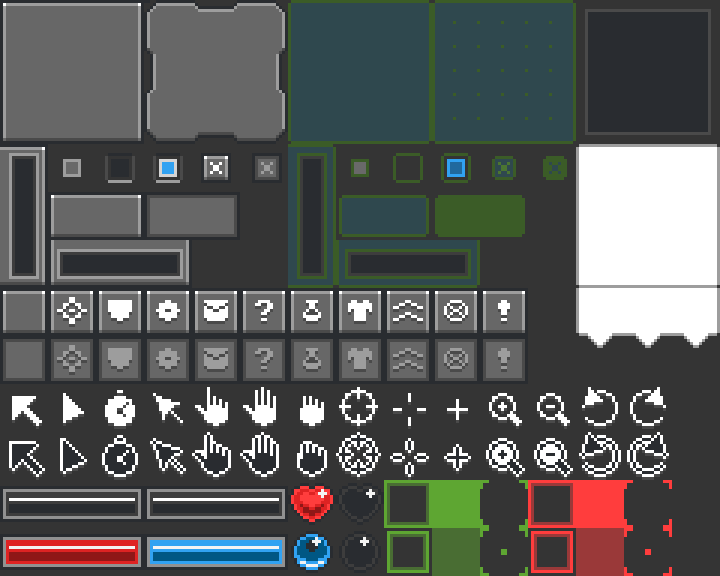
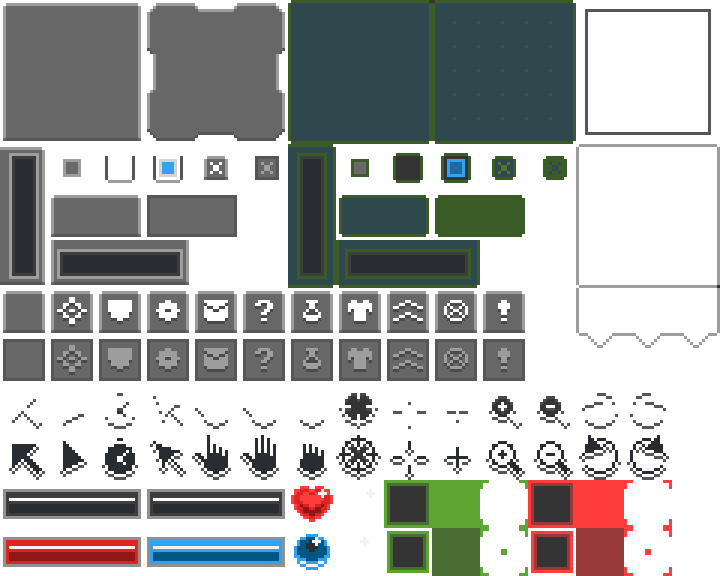
Add hud

diff --git a/dist/main.js b/dist/main.js
@@ -118,7 +118,7 @@ eval("__webpack_require__.r(__webpack_exports__);\n/* harmony import */ var _uti
 /***/ (function(module, __webpack_exports__, __webpack_require__) {
 
 "use strict";
-eval("__webpack_require__.r(__webpack_exports__);\n/* harmony import */ var _view__WEBPACK_IMPORTED_MODULE_0__ = __webpack_require__(/*! ./view */ \"./src/view.js\");\n/* harmony import */ var _character__WEBPACK_IMPORTED_MODULE_1__ = __webpack_require__(/*! ./character */ \"./src/character.js\");\n/* harmony import */ var _map__WEBPACK_IMPORTED_MODULE_2__ = __webpack_require__(/*! ./map */ \"./src/map.js\");\n/* harmony import */ var _levels__WEBPACK_IMPORTED_MODULE_3__ = __webpack_require__(/*! ./levels */ \"./src/levels.js\");\n/* harmony import */ var _util__WEBPACK_IMPORTED_MODULE_4__ = __webpack_require__(/*! ./util */ \"./src/util.js\");\n/* harmony import */ var _monsters__WEBPACK_IMPORTED_MODULE_5__ = __webpack_require__(/*! ./monsters */ \"./src/monsters.js\");\n/* harmony import */ var _bullets__WEBPACK_IMPORTED_MODULE_6__ = __webpack_require__(/*! ./bullets */ \"./src/bullets.js\");\n\n\n\n\n\n\n\n\nclass Game {\n  constructor(viewportDimensions) {\n    this.gameMap = new _map__WEBPACK_IMPORTED_MODULE_2__[\"default\"](_levels__WEBPACK_IMPORTED_MODULE_3__[\"levelOne\"])\n    this.player = new _character__WEBPACK_IMPORTED_MODULE_1__[\"default\"]()\n    this.viewport = new _view__WEBPACK_IMPORTED_MODULE_0__[\"default\"](viewportDimensions)\n    this.bullets = []\n    this.keysDown = {\n      32: false, //spacebar\n      37: false, //left arrow\n      39: false, //right arrow\n      38: false, //up arrow\n      40: false, //down arrow\n    }\n    this.monsters = {}\n    this.spawnRate = 6\n    this.maxSpawns = 500\n    this.currentSpawns = 0\n    this.score = 0\n    this.drawGame = () => {\n\n    if(ctx === null) return;\n    if(!tilesetLoaded || !monsterSetLoaded || !fxSetLoaded) {\n      requestAnimationFrame(this.drawGame)\n      return;\n    }\n    \n    const currentFrameTime = Date.now()\n    const timeElapsed = currentFrameTime - lastFrameTime\n\n    let sec = Math.floor(Date.now()/1000);\n    if (sec !== currentSecond) {\n      currentSecond = sec;\n      framesLastSecond = frameCount;\n      frameCount = 1\n    } else {\n      frameCount ++\n    }\n\n    //////// generate bullet\n    if(this.keysDown[32] && (currentFrameTime - this.player.lastBulletFired) > this.player.rateOfFire) {\n\n      let bullet = new _bullets__WEBPACK_IMPORTED_MODULE_6__[\"default\"](this.player.facing)\n      bullet.placeAt(this.player.tileFrom[0] + (_util__WEBPACK_IMPORTED_MODULE_4__[\"DIRECTIONS\"][bullet.facing].DIRS[0]), this.player.tileFrom[1] + (_util__WEBPACK_IMPORTED_MODULE_4__[\"DIRECTIONS\"][bullet.facing].DIRS[1]))\n      this.bullets.push(bullet)\n      this.player.lastBulletFired = currentFrameTime\n    }\n\n    this.viewport.update(this.player.position[0] + (this.player.dimensions[0]/2), \n    this.player.position[1] + (this.player.dimensions[1]/2))\n    this.renderViewportImage()\n    this.renderMap()\n    this.moveAndRenderBullets(currentFrameTime)\n    //// generate monster\n    if (!(sec%this.spawnRate) && this.currentSpawns < this.maxSpawns) this.placeMonster(_util__WEBPACK_IMPORTED_MODULE_4__[\"TILETYPES\"],_util__WEBPACK_IMPORTED_MODULE_4__[\"FLOORTYPES\"])\n  \n    //Player movement//////////////////////////////////////////////////////\n    if (!this.player.processMovement(currentFrameTime)) {\n      if((this.keysDown[37] && this.keysDown[39]) || (this.keysDown[38] && this.keysDown[40])) {\n        //do nothing\n        //prevent screen stuttering\n      }\n      //Left + up arrow\n      else if ((this.keysDown[37] && this.keysDown[38]) && this.isValidMove(_util__WEBPACK_IMPORTED_MODULE_4__[\"DIRECTIONS\"].UPLEFT, _util__WEBPACK_IMPORTED_MODULE_4__[\"TILETYPES\"], _util__WEBPACK_IMPORTED_MODULE_4__[\"FLOORTYPES\"])) {\n        this.player.move(_util__WEBPACK_IMPORTED_MODULE_4__[\"DIRECTIONS\"].UPLEFT, currentFrameTime)\n      }\n      //Left + down arrow\n      else if ((this.keysDown[37] && this.keysDown[40]) && this.isValidMove(_util__WEBPACK_IMPORTED_MODULE_4__[\"DIRECTIONS\"].DOWNLEFT, _util__WEBPACK_IMPORTED_MODULE_4__[\"TILETYPES\"], _util__WEBPACK_IMPORTED_MODULE_4__[\"FLOORTYPES\"])) {\n        this.player.move(_util__WEBPACK_IMPORTED_MODULE_4__[\"DIRECTIONS\"].DOWNLEFT, currentFrameTime)\n      }\n      //right + up arrow\n      else if ((this.keysDown[39] && this.keysDown[38]) && this.isValidMove(_util__WEBPACK_IMPORTED_MODULE_4__[\"DIRECTIONS\"].UPRIGHT, _util__WEBPACK_IMPORTED_MODULE_4__[\"TILETYPES\"], _util__WEBPACK_IMPORTED_MODULE_4__[\"FLOORTYPES\"])) {\n        this.player.move(_util__WEBPACK_IMPORTED_MODULE_4__[\"DIRECTIONS\"].UPRIGHT, currentFrameTime)\n      }\n      //right + down arrow\n      else if ((this.keysDown[39] && this.keysDown[40]) && this.isValidMove(_util__WEBPACK_IMPORTED_MODULE_4__[\"DIRECTIONS\"].DOWNRIGHT, _util__WEBPACK_IMPORTED_MODULE_4__[\"TILETYPES\"], _util__WEBPACK_IMPORTED_MODULE_4__[\"FLOORTYPES\"])) {\n        this.player.move(_util__WEBPACK_IMPORTED_MODULE_4__[\"DIRECTIONS\"].DOWNRIGHT, currentFrameTime)\n      }\n      //up arrow\n      else if (this.keysDown[38] && this.isValidMove(_util__WEBPACK_IMPORTED_MODULE_4__[\"DIRECTIONS\"].UP, _util__WEBPACK_IMPORTED_MODULE_4__[\"TILETYPES\"], _util__WEBPACK_IMPORTED_MODULE_4__[\"FLOORTYPES\"])) {\n        this.player.move(_util__WEBPACK_IMPORTED_MODULE_4__[\"DIRECTIONS\"].UP, currentFrameTime)  \n      }\n      //Down arrow\n      else if (this.keysDown[40] && this.isValidMove(_util__WEBPACK_IMPORTED_MODULE_4__[\"DIRECTIONS\"].DOWN, _util__WEBPACK_IMPORTED_MODULE_4__[\"TILETYPES\"], _util__WEBPACK_IMPORTED_MODULE_4__[\"FLOORTYPES\"])) {\n        this.player.move(_util__WEBPACK_IMPORTED_MODULE_4__[\"DIRECTIONS\"].DOWN, currentFrameTime)  \n      }\n      //Left arrow\n      else if (this.keysDown[37] && this.isValidMove(_util__WEBPACK_IMPORTED_MODULE_4__[\"DIRECTIONS\"].LEFT, _util__WEBPACK_IMPORTED_MODULE_4__[\"TILETYPES\"], _util__WEBPACK_IMPORTED_MODULE_4__[\"FLOORTYPES\"])) {\n        this.player.move(_util__WEBPACK_IMPORTED_MODULE_4__[\"DIRECTIONS\"].LEFT, currentFrameTime)  \n      }\n      //right arrow\n      else if (this.keysDown[39] && this.isValidMove(_util__WEBPACK_IMPORTED_MODULE_4__[\"DIRECTIONS\"].RIGHT, _util__WEBPACK_IMPORTED_MODULE_4__[\"TILETYPES\"], _util__WEBPACK_IMPORTED_MODULE_4__[\"FLOORTYPES\"])) {\n        this.player.move(_util__WEBPACK_IMPORTED_MODULE_4__[\"DIRECTIONS\"].RIGHT, currentFrameTime)\n      }\n      //check to see if player is moving\n      if((this.player.tileFrom[0] !== this.player.tileTo[0]) || (this.player.tileFrom[1] !== this.player.tileTo[1])){\n        this.player.timeMoved = currentFrameTime\n      }\n    }\n    ////////////////////////////////////////////////////////////////\n\n    //monsters\n    \n    let monsterMap = {}\n    for(let monster in this.monsters) {\n      monster = this.monsters[monster]\n\n      //if this is true then do not render\n      if (!monster.alive) continue;\n\n      if(!monster.processMovement(currentFrameTime)) {\n        \n        let direction = _util__WEBPACK_IMPORTED_MODULE_4__[\"DIRECTIONS\"][monster.determineDirection(this.player.position)]\n        //Loss condition here - if direction is blank then we know the monster is at the same position as the player\n        if (!direction) {\n          ctx.drawImage(window.gameOver, 163.5, 340, 473, 171, )\n          music.pause()\n          return;\n        }\n        let i = 2\n        while(!monster.isValidMonsterMove(this.gameMap, direction, this.monsters, monsterMap) && i > 0) {\n          //make 4 attempts to change direction\n          direction = _util__WEBPACK_IMPORTED_MODULE_4__[\"DIRECTIONS\"][_monsters__WEBPACK_IMPORTED_MODULE_5__[\"default\"].resolveCollision(direction)]\n          i -= 1\n\n        }\n        if(i > 0 ) monster.move(direction, currentFrameTime)\n\n      }\n      this.renderMonster(monster);\n      //might be redundant\n      if (monster.alive) monsterMap[this.toIndex(...monster.tileTo)] = monster;\n    }\n    this.monsters = monsterMap;\n    this.renderPlayer();\n    this.renderFPSCounter(framesLastSecond);\n    this.renderScore();\n    lastFrameTime = currentFrameTime;\n    requestAnimationFrame(this.drawGame);\n   }\n  }\n\n\n  increaseScore() {\n    this.currentSpawns -= 1\n    this.score += 1\n  }\n\n  renderPlayer() {\n    let spriteIndex = (this.player.movementAnimation) ? 0 : 1\n    window.ctx.drawImage(window.monsterSet, this.player.playerSprites[this.player.facing][spriteIndex].x, this.player.playerSprites[this.player.facing][spriteIndex].y, this.player.playerSprites[this.player.facing][spriteIndex].w, this.player.playerSprites[this.player.facing][spriteIndex].h,  (this.viewport.offset[0] + this.player.position[0]), (this.viewport.offset[1] + this.player.position[1]), this.player.dimensions[0], this.player.dimensions[1]);\n  }\n  renderMonster(monster) {\n    let spriteIndex = (monster.movementAnimation) ? 0 : 1\n    window.ctx.drawImage(window.monsterSet, monster.monsterSprites[monster.facing][spriteIndex].x, monster.monsterSprites[monster.facing][spriteIndex].y, monster.monsterSprites[monster.facing][spriteIndex].w, monster.monsterSprites[monster.facing][spriteIndex].h, (this.viewport.offset[0] + monster.position[0]), (this.viewport.offset[1]+ monster.position[1]), monster.dimensions[0], monster.dimensions[1]);\n  }\n\n\n  renderViewportImage() {\n     window.ctx.drawImage(window.spaceImage, 0, 0, 800, 800,  0, 0, this.viewport.screen[0], this.viewport.screen[1]);\n  }\n\n  toIndex(x,y) {\n    return ((y*mapW) + x);\n  }\n\n  //This function should be moved into the map\n  isValidMove(direction, TILETYPES, FLOORTYPES) {\n    const x = this.player.tileFrom[0] + direction.DIRS[0];\n    const y = this.player.tileFrom[1] + direction.DIRS[1]\n    if(x < 0 || x > (mapW-1) || y < 0 || y > mapH-1) return false;\n    if(TILETYPES[this.gameMap.map[this.toIndex(x,y)]].floor !== FLOORTYPES.open) return false;\n    return true;\n  }\n\n  // isValidMonsterMove(monster, direction, TILETYPES, FLOORTYPES) {\n  //   const x = monster.tileFrom[0] + direction.DIRS[0];\n  //   const y = monster.tileFrom[1] + direction.DIRS[1];\n  //   if(x < 0 || x > (mapW-1) || y < 0 || y > mapH-1) return false;\n  //   if(TILETYPES[this.gameMap.map[this.toIndex(x,y)]].floor !== FLOORTYPES.open) return false;\n  //   if (this.monsters[this.gameMap.map[this.toIndex(x,y)]]) return false;\n  //   return true;\n  // }\n  \n\n   renderMap() {\n     for(let y = this.viewport.startTile[1]; y <= this.viewport.endTile[1]; y++) {\n      for(let x = this.viewport.startTile[0]; x <= this.viewport.endTile[0]; x++) {\n        const index = this.toIndex(x,y)\n        const tile = _util__WEBPACK_IMPORTED_MODULE_4__[\"TILETYPES\"][this.gameMap.map[this.toIndex(x,y)]];\n        let spriteIndex = tile.name === \"wall\" && this.gameMap.map[index + 64] ? 1 : 0\n        try {\n          window.ctx.drawImage(window.tileset, tile.sprite[spriteIndex].x, tile.sprite[spriteIndex].y, tile.sprite[spriteIndex].w, tile.sprite[spriteIndex].h, \n            (this.viewport.offset[0] + (x * tileW)), (this.viewport.offset[1] + (y*tileH)), tileW, tileH);\n          } catch(err) {\n            console.log(this.gameMap.map[index + 64])\n          }\n      }\n    }\n  }\n\n  renderFPSCounter(framesLastSecond) {\n    window.ctx.fillStyle = \"ff0000\";\n    window.ctx.fillText(\"FPS: \" + framesLastSecond, 10, 20)\n  }\n\n  renderScore() {\n    window.ctx.fillStyle = \"ff0000\";\n    window.ctx.fillText(\"Score: \" + this.score, 10, 48)\n  }\n  placeMonster(TILETYPES,FLOORTYPES) {\n    const playerPosition = this.player.position\n    const newMonsterPosition = () => [Math.floor(Math.random() * mapH - 1) + 1, Math.floor(Math.random() * mapW - 1) + 1]\n    const validateMonsterPlacement = (position) => {\n      if (Math.abs(position[0] - playerPosition[0]) <= 3 || Math.abs(position[1] - playerPosition[1]) <= 3) return false\n      if(TILETYPES[this.gameMap.map[this.toIndex(...position)]].floor !== FLOORTYPES.open) return false\n      return true\n    }\n    let monsterPosition = newMonsterPosition()\n    while (!validateMonsterPlacement(monsterPosition)) {\n      monsterPosition = newMonsterPosition()\n    }\n    const monster = new _monsters__WEBPACK_IMPORTED_MODULE_5__[\"default\"]()\n    monster.placeAt(...monsterPosition)\n    this.monsters[this.toIndex(...monsterPosition)] = monster\n    this.currentSpawns += 1\n  }\n  \n  moveAndRenderBullets(currentFrameTime) {\n  let bullets = []\n  \n    if (this.bullets.length > 0) {\n     for(let bullet of this.bullets) {\n  \n      if (bullet.detectCollision(this.monsters)) this.increaseScore()\n\n      if(bullet.isValidMove(this.gameMap)) {\n        if(!bullet.processMovement(currentFrameTime)) {\n          bullet.move(_util__WEBPACK_IMPORTED_MODULE_4__[\"DIRECTIONS\"][bullet.facing], currentFrameTime)\n          //console.log(this.player.position)\n          //console.log(\"bullet\", bullet.position)\n        }\n        bullets.push(bullet)\n    }\n\n  \n      let spriteIndex = (bullet.movementAnimation) ? 0 : 1\n      window.ctx.drawImage(window.fxSet, bullet.bulletSprites[bullet.facing][spriteIndex].x, bullet.bulletSprites[bullet.facing][spriteIndex].y, bullet.bulletSprites[bullet.facing][spriteIndex].w, bullet.bulletSprites[bullet.facing][spriteIndex].h, (this.viewport.offset[0] + bullet.position[0]), (this.viewport.offset[1]+ bullet.position[1]), bullet.dimensions[0], bullet.dimensions[1]);\n\n     }\n    } \n   this.bullets = bullets\n  }\n\n}\n  \n\n/* harmony default export */ __webpack_exports__[\"default\"] = (Game);\n\n\n\n\n//# sourceURL=webpack:///./src/game.js?");
+eval("__webpack_require__.r(__webpack_exports__);\n/* harmony import */ var _view__WEBPACK_IMPORTED_MODULE_0__ = __webpack_require__(/*! ./view */ \"./src/view.js\");\n/* harmony import */ var _character__WEBPACK_IMPORTED_MODULE_1__ = __webpack_require__(/*! ./character */ \"./src/character.js\");\n/* harmony import */ var _map__WEBPACK_IMPORTED_MODULE_2__ = __webpack_require__(/*! ./map */ \"./src/map.js\");\n/* harmony import */ var _levels__WEBPACK_IMPORTED_MODULE_3__ = __webpack_require__(/*! ./levels */ \"./src/levels.js\");\n/* harmony import */ var _util__WEBPACK_IMPORTED_MODULE_4__ = __webpack_require__(/*! ./util */ \"./src/util.js\");\n/* harmony import */ var _monsters__WEBPACK_IMPORTED_MODULE_5__ = __webpack_require__(/*! ./monsters */ \"./src/monsters.js\");\n/* harmony import */ var _bullets__WEBPACK_IMPORTED_MODULE_6__ = __webpack_require__(/*! ./bullets */ \"./src/bullets.js\");\n\n\n\n\n\n\n\n\nclass Game {\n  constructor(viewportDimensions) {\n    this.gameMap = new _map__WEBPACK_IMPORTED_MODULE_2__[\"default\"](_levels__WEBPACK_IMPORTED_MODULE_3__[\"levelOne\"])\n    this.player = new _character__WEBPACK_IMPORTED_MODULE_1__[\"default\"]()\n    this.viewport = new _view__WEBPACK_IMPORTED_MODULE_0__[\"default\"](viewportDimensions)\n    this.bullets = []\n    this.keysDown = {\n      32: false, //spacebar\n      37: false, //left arrow\n      39: false, //right arrow\n      38: false, //up arrow\n      40: false, //down arrow\n    }\n    this.monsters = {}\n    this.spawnRate = 6\n    this.maxSpawns = 500\n    this.currentSpawns = 0\n    this.score = 0\n    this.drawGame = () => {\n\n    if(ctx === null) return;\n    if(!tilesetLoaded || !monsterSetLoaded || !fxSetLoaded) {\n      requestAnimationFrame(this.drawGame)\n      return;\n    }\n    \n    const currentFrameTime = Date.now()\n    const timeElapsed = currentFrameTime - lastFrameTime\n\n    let sec = Math.floor(Date.now()/1000);\n    if (sec !== currentSecond) {\n      currentSecond = sec;\n      framesLastSecond = frameCount;\n      frameCount = 1\n    } else {\n      frameCount ++\n    }\n\n    //////// generate bullet\n    if(this.keysDown[32] && (currentFrameTime - this.player.lastBulletFired) > this.player.rateOfFire) {\n\n      let bullet = new _bullets__WEBPACK_IMPORTED_MODULE_6__[\"default\"](this.player.facing)\n      bullet.placeAt(this.player.tileFrom[0] + (_util__WEBPACK_IMPORTED_MODULE_4__[\"DIRECTIONS\"][bullet.facing].DIRS[0]), this.player.tileFrom[1] + (_util__WEBPACK_IMPORTED_MODULE_4__[\"DIRECTIONS\"][bullet.facing].DIRS[1]))\n      this.bullets.push(bullet)\n      this.player.lastBulletFired = currentFrameTime\n    }\n\n    this.viewport.update(this.player.position[0] + (this.player.dimensions[0]/2), \n    this.player.position[1] + (this.player.dimensions[1]/2))\n    this.renderViewportImage()\n    this.renderMap()\n    this.moveAndRenderBullets(currentFrameTime)\n    //// generate monster\n    if (!(sec%this.spawnRate) && this.currentSpawns < this.maxSpawns) this.placeMonster(_util__WEBPACK_IMPORTED_MODULE_4__[\"TILETYPES\"],_util__WEBPACK_IMPORTED_MODULE_4__[\"FLOORTYPES\"])\n  \n    //Player movement//////////////////////////////////////////////////////\n    if (!this.player.processMovement(currentFrameTime)) {\n      if((this.keysDown[37] && this.keysDown[39]) || (this.keysDown[38] && this.keysDown[40])) {\n        //do nothing\n        //prevent screen stuttering\n      }\n      //Left + up arrow\n      else if ((this.keysDown[37] && this.keysDown[38]) && this.isValidMove(_util__WEBPACK_IMPORTED_MODULE_4__[\"DIRECTIONS\"].UPLEFT, _util__WEBPACK_IMPORTED_MODULE_4__[\"TILETYPES\"], _util__WEBPACK_IMPORTED_MODULE_4__[\"FLOORTYPES\"])) {\n        this.player.move(_util__WEBPACK_IMPORTED_MODULE_4__[\"DIRECTIONS\"].UPLEFT, currentFrameTime)\n      }\n      //Left + down arrow\n      else if ((this.keysDown[37] && this.keysDown[40]) && this.isValidMove(_util__WEBPACK_IMPORTED_MODULE_4__[\"DIRECTIONS\"].DOWNLEFT, _util__WEBPACK_IMPORTED_MODULE_4__[\"TILETYPES\"], _util__WEBPACK_IMPORTED_MODULE_4__[\"FLOORTYPES\"])) {\n        this.player.move(_util__WEBPACK_IMPORTED_MODULE_4__[\"DIRECTIONS\"].DOWNLEFT, currentFrameTime)\n      }\n      //right + up arrow\n      else if ((this.keysDown[39] && this.keysDown[38]) && this.isValidMove(_util__WEBPACK_IMPORTED_MODULE_4__[\"DIRECTIONS\"].UPRIGHT, _util__WEBPACK_IMPORTED_MODULE_4__[\"TILETYPES\"], _util__WEBPACK_IMPORTED_MODULE_4__[\"FLOORTYPES\"])) {\n        this.player.move(_util__WEBPACK_IMPORTED_MODULE_4__[\"DIRECTIONS\"].UPRIGHT, currentFrameTime)\n      }\n      //right + down arrow\n      else if ((this.keysDown[39] && this.keysDown[40]) && this.isValidMove(_util__WEBPACK_IMPORTED_MODULE_4__[\"DIRECTIONS\"].DOWNRIGHT, _util__WEBPACK_IMPORTED_MODULE_4__[\"TILETYPES\"], _util__WEBPACK_IMPORTED_MODULE_4__[\"FLOORTYPES\"])) {\n        this.player.move(_util__WEBPACK_IMPORTED_MODULE_4__[\"DIRECTIONS\"].DOWNRIGHT, currentFrameTime)\n      }\n      //up arrow\n      else if (this.keysDown[38] && this.isValidMove(_util__WEBPACK_IMPORTED_MODULE_4__[\"DIRECTIONS\"].UP, _util__WEBPACK_IMPORTED_MODULE_4__[\"TILETYPES\"], _util__WEBPACK_IMPORTED_MODULE_4__[\"FLOORTYPES\"])) {\n        this.player.move(_util__WEBPACK_IMPORTED_MODULE_4__[\"DIRECTIONS\"].UP, currentFrameTime)  \n      }\n      //Down arrow\n      else if (this.keysDown[40] && this.isValidMove(_util__WEBPACK_IMPORTED_MODULE_4__[\"DIRECTIONS\"].DOWN, _util__WEBPACK_IMPORTED_MODULE_4__[\"TILETYPES\"], _util__WEBPACK_IMPORTED_MODULE_4__[\"FLOORTYPES\"])) {\n        this.player.move(_util__WEBPACK_IMPORTED_MODULE_4__[\"DIRECTIONS\"].DOWN, currentFrameTime)  \n      }\n      //Left arrow\n      else if (this.keysDown[37] && this.isValidMove(_util__WEBPACK_IMPORTED_MODULE_4__[\"DIRECTIONS\"].LEFT, _util__WEBPACK_IMPORTED_MODULE_4__[\"TILETYPES\"], _util__WEBPACK_IMPORTED_MODULE_4__[\"FLOORTYPES\"])) {\n        this.player.move(_util__WEBPACK_IMPORTED_MODULE_4__[\"DIRECTIONS\"].LEFT, currentFrameTime)  \n      }\n      //right arrow\n      else if (this.keysDown[39] && this.isValidMove(_util__WEBPACK_IMPORTED_MODULE_4__[\"DIRECTIONS\"].RIGHT, _util__WEBPACK_IMPORTED_MODULE_4__[\"TILETYPES\"], _util__WEBPACK_IMPORTED_MODULE_4__[\"FLOORTYPES\"])) {\n        this.player.move(_util__WEBPACK_IMPORTED_MODULE_4__[\"DIRECTIONS\"].RIGHT, currentFrameTime)\n      }\n      //check to see if player is moving\n      if((this.player.tileFrom[0] !== this.player.tileTo[0]) || (this.player.tileFrom[1] !== this.player.tileTo[1])){\n        this.player.timeMoved = currentFrameTime\n      }\n    }\n    ////////////////////////////////////////////////////////////////\n\n    //monsters\n    \n    let monsterMap = {}\n    for(let monster in this.monsters) {\n      monster = this.monsters[monster]\n\n      //if this is true then do not render\n      if (!monster.alive) continue;\n\n      if(!monster.processMovement(currentFrameTime)) {\n        \n        let direction = _util__WEBPACK_IMPORTED_MODULE_4__[\"DIRECTIONS\"][monster.determineDirection(this.player.position)]\n        //Loss condition here - if direction is blank then we know the monster is at the same position as the player\n        if (!direction) {\n          ctx.drawImage(window.gameOver, 163.5, 340, 473, 171, )\n          music.pause()\n          return;\n        }\n        let i = 2\n        while(!monster.isValidMonsterMove(this.gameMap, direction, this.monsters, monsterMap) && i > 0) {\n          //make 4 attempts to change direction\n          direction = _util__WEBPACK_IMPORTED_MODULE_4__[\"DIRECTIONS\"][_monsters__WEBPACK_IMPORTED_MODULE_5__[\"default\"].resolveCollision(direction)]\n          i -= 1\n\n        }\n        if(i > 0 ) monster.move(direction, currentFrameTime)\n\n      }\n      this.renderMonster(monster);\n      //might be redundant\n      if (monster.alive) monsterMap[this.toIndex(...monster.tileTo)] = monster;\n    }\n    this.monsters = monsterMap;\n    this.renderPlayer();\n    this.renderHud(framesLastSecond);\n    lastFrameTime = currentFrameTime;\n    requestAnimationFrame(this.drawGame);\n   }\n  }\n\n\n  increaseScore() {\n    this.currentSpawns -= 1\n    this.score += 1\n  }\n\n  renderPlayer() {\n    let spriteIndex = (this.player.movementAnimation) ? 0 : 1\n    window.ctx.drawImage(window.monsterSet, this.player.playerSprites[this.player.facing][spriteIndex].x, this.player.playerSprites[this.player.facing][spriteIndex].y, this.player.playerSprites[this.player.facing][spriteIndex].w, this.player.playerSprites[this.player.facing][spriteIndex].h,  (this.viewport.offset[0] + this.player.position[0]), (this.viewport.offset[1] + this.player.position[1]), this.player.dimensions[0], this.player.dimensions[1]);\n  }\n  renderMonster(monster) {\n    let spriteIndex = (monster.movementAnimation) ? 0 : 1\n    window.ctx.drawImage(window.monsterSet, monster.monsterSprites[monster.facing][spriteIndex].x, monster.monsterSprites[monster.facing][spriteIndex].y, monster.monsterSprites[monster.facing][spriteIndex].w, monster.monsterSprites[monster.facing][spriteIndex].h, (this.viewport.offset[0] + monster.position[0]), (this.viewport.offset[1]+ monster.position[1]), monster.dimensions[0], monster.dimensions[1]);\n  }\n\n\n  renderViewportImage() {\n     window.ctx.drawImage(window.spaceImage, 0, 0, 800, 800,  0, 0, this.viewport.screen[0], this.viewport.screen[1]);\n  }\n\n  toIndex(x,y) {\n    return ((y*mapW) + x);\n  }\n\n  //This function should be moved into the map\n  isValidMove(direction, TILETYPES, FLOORTYPES) {\n    const x = this.player.tileFrom[0] + direction.DIRS[0];\n    const y = this.player.tileFrom[1] + direction.DIRS[1]\n    if(x < 0 || x > (mapW-1) || y < 0 || y > mapH-1) return false;\n    if(TILETYPES[this.gameMap.map[this.toIndex(x,y)]].floor !== FLOORTYPES.open) return false;\n    return true;\n  }\n\n  // isValidMonsterMove(monster, direction, TILETYPES, FLOORTYPES) {\n  //   const x = monster.tileFrom[0] + direction.DIRS[0];\n  //   const y = monster.tileFrom[1] + direction.DIRS[1];\n  //   if(x < 0 || x > (mapW-1) || y < 0 || y > mapH-1) return false;\n  //   if(TILETYPES[this.gameMap.map[this.toIndex(x,y)]].floor !== FLOORTYPES.open) return false;\n  //   if (this.monsters[this.gameMap.map[this.toIndex(x,y)]]) return false;\n  //   return true;\n  // }\n  \n\n  renderMap() {\n    for(let y = this.viewport.startTile[1]; y <= this.viewport.endTile[1]; y++) {\n      for(let x = this.viewport.startTile[0]; x <= this.viewport.endTile[0]; x++) {\n        const index = this.toIndex(x,y)\n        const tile = _util__WEBPACK_IMPORTED_MODULE_4__[\"TILETYPES\"][this.gameMap.map[this.toIndex(x,y)]];\n        let spriteIndex = tile.name === \"wall\" && this.gameMap.map[index + 64] ? 1 : 0\n        try {\n          window.ctx.drawImage(window.tileset, tile.sprite[spriteIndex].x, tile.sprite[spriteIndex].y, tile.sprite[spriteIndex].w, tile.sprite[spriteIndex].h, \n            (this.viewport.offset[0] + (x * tileW)), (this.viewport.offset[1] + (y*tileH)), tileW, tileH);\n          } catch(err) {\n            console.log(this.gameMap.map[index + 64])\n          }\n      }\n    }\n  }\n\n  renderHud(framesLastSecond) {\n    window.ctx.drawImage(window.interface, 574, 285, 145, 60, 10, 10, 130, 70);\n    window.ctx.fillStyle = \"#980598\";\n    window.ctx.fillText(\"FPS: \" + framesLastSecond, 45, 35)\n    window.ctx.fillText(\"SCORE: \" + this.score, 45, 60)\n    //This is controling the shadow around the sprites as well\n    window.ctx.shadowOffestX = 1\n    window.ctx.shadowOffestY = 1\n    window.ctx.shadowColor = \"#980598\";\n    window.ctx.shadowBlur = 1;\n\n  }\n\n  placeMonster(TILETYPES,FLOORTYPES) {\n    const playerPosition = this.player.position\n    const newMonsterPosition = () => [Math.floor(Math.random() * mapH - 1) + 1, Math.floor(Math.random() * mapW - 1) + 1]\n    const validateMonsterPlacement = (position) => {\n      if (Math.abs(position[0] - playerPosition[0]) <= 3 || Math.abs(position[1] - playerPosition[1]) <= 3) return false\n      if(TILETYPES[this.gameMap.map[this.toIndex(...position)]].floor !== FLOORTYPES.open) return false\n      return true\n    }\n    let monsterPosition = newMonsterPosition()\n    while (!validateMonsterPlacement(monsterPosition)) {\n      monsterPosition = newMonsterPosition()\n    }\n    const monster = new _monsters__WEBPACK_IMPORTED_MODULE_5__[\"default\"]()\n    monster.placeAt(...monsterPosition)\n    this.monsters[this.toIndex(...monsterPosition)] = monster\n    this.currentSpawns += 1\n  }\n  \n  moveAndRenderBullets(currentFrameTime) {\n  let bullets = []\n  \n    if (this.bullets.length > 0) {\n     for(let bullet of this.bullets) {\n  \n      if (bullet.detectCollision(this.monsters)) this.increaseScore()\n\n      if(bullet.isValidMove(this.gameMap)) {\n        if(!bullet.processMovement(currentFrameTime)) {\n          bullet.move(_util__WEBPACK_IMPORTED_MODULE_4__[\"DIRECTIONS\"][bullet.facing], currentFrameTime)\n          //console.log(this.player.position)\n          //console.log(\"bullet\", bullet.position)\n        }\n        bullets.push(bullet)\n    }\n\n  \n      let spriteIndex = (bullet.movementAnimation) ? 0 : 1\n      window.ctx.drawImage(window.fxSet, bullet.bulletSprites[bullet.facing][spriteIndex].x, bullet.bulletSprites[bullet.facing][spriteIndex].y, bullet.bulletSprites[bullet.facing][spriteIndex].w, bullet.bulletSprites[bullet.facing][spriteIndex].h, (this.viewport.offset[0] + bullet.position[0]), (this.viewport.offset[1]+ bullet.position[1]), bullet.dimensions[0], bullet.dimensions[1]);\n\n     }\n    } \n   this.bullets = bullets\n  }\n\n}\n  \n\n/* harmony default export */ __webpack_exports__[\"default\"] = (Game);\n\n\n\n\n//# sourceURL=webpack:///./src/game.js?");
 
 /***/ }),
 
@@ -130,7 +130,7 @@ eval("__webpack_require__.r(__webpack_exports__);\n/* harmony import */ var _vie
 /***/ (function(module, __webpack_exports__, __webpack_require__) {
 
 "use strict";
-eval("__webpack_require__.r(__webpack_exports__);\n/* harmony import */ var _game__WEBPACK_IMPORTED_MODULE_0__ = __webpack_require__(/*! ./game */ \"./src/game.js\");\n/* harmony import */ var _pregame__WEBPACK_IMPORTED_MODULE_1__ = __webpack_require__(/*! ./pregame */ \"./src/pregame.js\");\n/* harmony import */ var _util__WEBPACK_IMPORTED_MODULE_2__ = __webpack_require__(/*! ./util */ \"./src/util.js\");\n\n\n\n\nwindow.tileW = 48\nwindow.tileH = 48;\nwindow.mapW = 64;\nwindow.mapH = 64;\n\nwindow.tileset = new Image();\nwindow.monsterSet = new Image();\nwindow.fxSet = new Image();\nwindow.spaceImage = new Image();\nwindow.gameOver = new Image();\nwindow.spaceSet = new Image();\n\nwindow.ctx = null\nwindow.tilesetLoaded = false \nwindow.monsterSetLoaded = false; \nwindow.fxSetLoaded = false;\nwindow.currentSecond = 0, \nwindow.frameCount = 0, \nwindow.framesLastSecond = 0;\nwindow.lastFrameTime = 0;\nwindow.music = new Audio(_util__WEBPACK_IMPORTED_MODULE_2__[\"ASSETURLS\"].hootsforce)\n\n\n\nwindow.onload = function() {\n  \n  window.tileset.onerror = function(e) {\n    window.ctx = null;\n    alert(\"tileset load error\", e.message);\n  }\n  \n  window.monsterSet.onerror = function(e) {\n    window.ctx = null;\n    alert(\"monsterset load error\", e.message);\n  }\n\n  window.fxSet.onerror = function(e) {\n    window.ctx = null;\n    alert(\"background image load error\", e.message);\n  }\n\n  window.spaceImage.onerror = function(e) {\n    window.ctx = null;\n    alert(\"background image load error\", e.message);\n  }\n  \n  window.tileset.onload = function() { window.tilesetLoaded = true };\n  window.monsterSet.onload = function() { window.monsterSetLoaded = true }\n  window.fxSet.onload = function() { window.fxSetLoaded = true }\n  //revisit \n  window.tileset.src = _util__WEBPACK_IMPORTED_MODULE_2__[\"ASSETURLS\"].tilesetUrl;\n  window.monsterSet.src = _util__WEBPACK_IMPORTED_MODULE_2__[\"ASSETURLS\"].characterTilesetUrl;\n  window.fxSet.src = _util__WEBPACK_IMPORTED_MODULE_2__[\"ASSETURLS\"].fxSetUrl;\n  window.spaceImage.src = _util__WEBPACK_IMPORTED_MODULE_2__[\"ASSETURLS\"].spaceImageUrl;\n  window.gameOver.src = _util__WEBPACK_IMPORTED_MODULE_2__[\"ASSETURLS\"].gameOver;\n  window.spaceSet.src = _util__WEBPACK_IMPORTED_MODULE_2__[\"ASSETURLS\"].spaceSet\n  \n};\n\ndocument.addEventListener(\"DOMContentLoaded\", () => { \n  const pregameElement = document.getElementById(\"pregame\")\n  window.ctx = pregameElement.getContext('2d');\n  const pregame = new _pregame__WEBPACK_IMPORTED_MODULE_1__[\"default\"]()\n  requestAnimationFrame(pregame.drawPregame)\n  const start = document.getElementById(\"start\")\n  start.addEventListener( \"click\", () =>{\n    document.querySelectorAll(\".welcome\")[0].setAttribute(\"class\", \"hidden\")\n    document.getElementById(\"game\").setAttribute(\"class\", \"show\")\n    const play = document.getElementById(\"play\")\n    const pause = document.getElementById(\"pause\")\n    const volume = document.getElementById(\"volume\")\n    \n    music.volume = .25\n    music.play();\n\n    play.addEventListener(\"click\", () =>{\n      if (music.paused) {\n        music.play()\n      }\n    })\n\n    pause.addEventListener(\"click\", () => {\n      if (!music.paused) {\n        music.pause()\n      }\n    })\n\n    volume.addEventListener(\"change\", () => {\n      music.volume = (volume.value * .01)\n    })\n  \n    const game = document.getElementById(\"game\")\n    window.ctx = game.getContext('2d');\n    const newGame = new _game__WEBPACK_IMPORTED_MODULE_0__[\"default\"]([game.width, game.height])\n    window.ctx.font = \"bold 10pt sans-serif\";\n    \n    window.addEventListener(\"keydown\", (e) => {\n      if ((e.keyCode >= 37 && e.keyCode <= 40) || e.keyCode === 32) {\n        newGame.keysDown[e.keyCode] = true;\n      }\n    });\n    window.addEventListener(\"keyup\", (e) => {\n      if ((e.keyCode >= 37 && e.keyCode <= 40) || e.keyCode === 32) {\n        newGame.keysDown[e.keyCode] = false;\n      }\n    });\n    \n    pregame.gameStart = true;\n    requestAnimationFrame(newGame.drawGame);\n  })\n  \n\n});  \n\n\n\n\n\n\n\n\n\n\n\n\n\n// const interiorWalls = {\n//   1: {x:144, y:0, w:48, h:48},\n//   2: {x:112, y:0, w:16, h:16},\n//   3: {x:128, y:0, w:16, h:16},\n//   4: {x:144, y:0, w:16, h:16},\n//   5: {x:160, y:0, w:16, h:16},\n//   6: {x:176, y:0, w:16, h:16},\n// }\n\n// const floorTiles = {\n//   1: {x:0, y:16, w:48, h:48},\n//   2: {x:112, y:16, w:16, h:16},\n//   3: {x:128, y:16, w:16, h:16},\n//   4: {x:144, y:16, w:16, h:16},\n//   5: {x:160, y:16, w:16, h:16},\n//   6: {x:176, y:16, w:16, h:16},\n// }\n\n\n\n  //listeners\n  \n\n\n\n\n\n\n\n\n\n\n\n//# sourceURL=webpack:///./src/index.js?");
+eval("__webpack_require__.r(__webpack_exports__);\n/* harmony import */ var _game__WEBPACK_IMPORTED_MODULE_0__ = __webpack_require__(/*! ./game */ \"./src/game.js\");\n/* harmony import */ var _pregame__WEBPACK_IMPORTED_MODULE_1__ = __webpack_require__(/*! ./pregame */ \"./src/pregame.js\");\n/* harmony import */ var _util__WEBPACK_IMPORTED_MODULE_2__ = __webpack_require__(/*! ./util */ \"./src/util.js\");\n\n\n\n\nwindow.tileW = 48\nwindow.tileH = 48;\nwindow.mapW = 64;\nwindow.mapH = 64;\n\nwindow.tileset = new Image();\nwindow.monsterSet = new Image();\nwindow.fxSet = new Image();\nwindow.spaceImage = new Image();\nwindow.gameOver = new Image();\nwindow.spaceSet = new Image();\nwindow.interface = new Image();\n\nwindow.ctx = null\nwindow.tilesetLoaded = false \nwindow.monsterSetLoaded = false; \nwindow.fxSetLoaded = false;\nwindow.currentSecond = 0, \nwindow.frameCount = 0, \nwindow.framesLastSecond = 0;\nwindow.lastFrameTime = 0;\nwindow.music = new Audio(_util__WEBPACK_IMPORTED_MODULE_2__[\"ASSETURLS\"].hootsforce)\n\n\n\nwindow.onload = function() {\n\n  const notifyError = function(e) {\n    window.ctx = null;\n    alert(\"tileset load error\", e.message);\n  }\n  \n  window.tileset.onerror = notifyError\n  window.monsterSet.onerror = notifyError\n  window.fxSet.onerror = notifyError\n  window.spaceImage.onerror = notifyError\n  window.interface.onerror = notifyError\n  \n  window.tileset.onload = function() { window.tilesetLoaded = true };\n  window.monsterSet.onload = function() { window.monsterSetLoaded = true }\n  window.fxSet.onload = function() { window.fxSetLoaded = true }\n  //revisit \n  window.tileset.src = _util__WEBPACK_IMPORTED_MODULE_2__[\"ASSETURLS\"].tilesetUrl;\n  window.monsterSet.src = _util__WEBPACK_IMPORTED_MODULE_2__[\"ASSETURLS\"].characterTilesetUrl;\n  window.fxSet.src = _util__WEBPACK_IMPORTED_MODULE_2__[\"ASSETURLS\"].fxSetUrl;\n  window.spaceImage.src = _util__WEBPACK_IMPORTED_MODULE_2__[\"ASSETURLS\"].spaceImageUrl;\n  window.gameOver.src = _util__WEBPACK_IMPORTED_MODULE_2__[\"ASSETURLS\"].gameOver;\n  window.spaceSet.src = _util__WEBPACK_IMPORTED_MODULE_2__[\"ASSETURLS\"].spaceSet\n  window.interface.src = _util__WEBPACK_IMPORTED_MODULE_2__[\"ASSETURLS\"].interfaceUrl\n  \n};\n\ndocument.addEventListener(\"DOMContentLoaded\", () => { \n  const pregameElement = document.getElementById(\"pregame\")\n  window.ctx = pregameElement.getContext('2d');\n  const pregame = new _pregame__WEBPACK_IMPORTED_MODULE_1__[\"default\"]()\n  requestAnimationFrame(pregame.drawPregame)\n  const start = document.getElementById(\"start\")\n  start.addEventListener( \"click\", () =>{\n    document.querySelectorAll(\".welcome\")[0].setAttribute(\"class\", \"hidden\")\n    document.getElementById(\"game\").setAttribute(\"class\", \"show\")\n    const play = document.getElementById(\"play\")\n    const pause = document.getElementById(\"pause\")\n    const volume = document.getElementById(\"volume\")\n    \n    music.volume = .25\n    music.play();\n\n    play.addEventListener(\"click\", () =>{\n      if (music.paused) {\n        music.play()\n      }\n    })\n\n    pause.addEventListener(\"click\", () => {\n      if (!music.paused) {\n        music.pause()\n      }\n    })\n\n    volume.addEventListener(\"change\", () => {\n      music.volume = (volume.value * .01)\n    })\n  \n    const game = document.getElementById(\"game\")\n    window.ctx = game.getContext('2d');\n    const newGame = new _game__WEBPACK_IMPORTED_MODULE_0__[\"default\"]([game.width, game.height])\n    window.ctx.font = \"bold 16pt 'Creepster'\";\n    \n    window.addEventListener(\"keydown\", (e) => {\n      if ((e.keyCode >= 37 && e.keyCode <= 40) || e.keyCode === 32) {\n        newGame.keysDown[e.keyCode] = true;\n      }\n    });\n    window.addEventListener(\"keyup\", (e) => {\n      if ((e.keyCode >= 37 && e.keyCode <= 40) || e.keyCode === 32) {\n        newGame.keysDown[e.keyCode] = false;\n      }\n    });\n    \n    pregame.gameStart = true;\n    requestAnimationFrame(newGame.drawGame);\n  })\n  \n\n});  \n\n\n\n\n\n\n\n\n\n\n\n\n\n// const interiorWalls = {\n//   1: {x:144, y:0, w:48, h:48},\n//   2: {x:112, y:0, w:16, h:16},\n//   3: {x:128, y:0, w:16, h:16},\n//   4: {x:144, y:0, w:16, h:16},\n//   5: {x:160, y:0, w:16, h:16},\n//   6: {x:176, y:0, w:16, h:16},\n// }\n\n// const floorTiles = {\n//   1: {x:0, y:16, w:48, h:48},\n//   2: {x:112, y:16, w:16, h:16},\n//   3: {x:128, y:16, w:16, h:16},\n//   4: {x:144, y:16, w:16, h:16},\n//   5: {x:160, y:16, w:16, h:16},\n//   6: {x:176, y:16, w:16, h:16},\n// }\n\n\n\n  //listeners\n  \n\n\n\n\n\n\n\n\n\n\n\n//# sourceURL=webpack:///./src/index.js?");
 
 /***/ }),
 
@@ -190,7 +190,7 @@ eval("__webpack_require__.r(__webpack_exports__);\nclass Pregame {\n  constructo
 /***/ (function(module, __webpack_exports__, __webpack_require__) {
 
 "use strict";
-eval("__webpack_require__.r(__webpack_exports__);\n/* harmony export (binding) */ __webpack_require__.d(__webpack_exports__, \"FLOORTYPES\", function() { return FLOORTYPES; });\n/* harmony export (binding) */ __webpack_require__.d(__webpack_exports__, \"TILETYPES\", function() { return TILETYPES; });\n/* harmony export (binding) */ __webpack_require__.d(__webpack_exports__, \"DIRECTIONS\", function() { return DIRECTIONS; });\n/* harmony export (binding) */ __webpack_require__.d(__webpack_exports__, \"ASSETURLS\", function() { return ASSETURLS; });\nconst FLOORTYPES = {\n    solid: 1,\n    open: 0\n  }\nconst TILETYPES = {\n    0: { name: \"wall\", sprite:[{x:288, y:96, w:48, h:48},{x: 0, y: 96, w:48, h:48}], floor: FLOORTYPES.solid },\n    1: { name: \"tile\", sprite:[{x:144, y:432, w:48, h:48}], floor: FLOORTYPES.open },\n    2: { name: \"keycard\", sprite:[{x: 0, y:112, w:16, h:16}], floor: FLOORTYPES.open },\n    3: { name: \"item\", sprite:[{x: 0, y:0, w:16, h:16}], floor: FLOORTYPES.open },\n    41: { name: \"table\", sprite:[{x: 48, y:912, w:47, h:47}], floor: FLOORTYPES.solid },\n    42: { name: \"vat\", sprite:[{x: 144, y:816, w:47, h:47}], floor: FLOORTYPES.solid },\n    43: { name: \"crate\", sprite:[{x: 0, y:816, w:47, h:47}], floor: FLOORTYPES.open },\n    5: { name: \"computer\", sprite:[{x:192, y:816, w:47, h:47}], floor: FLOORTYPES.solid },\n  }\n\nconst DIRECTIONS = {\n    UP: { DIRS: [0, -1], FACING: \"UP\" },\n    DOWN: { DIRS: [0, 1], FACING: \"DOWN\" },\n    LEFT: { DIRS: [-1, 0], FACING: \"LEFT\" },\n    RIGHT: { DIRS: [1,0], FACING: \"RIGHT\" },\n    UPLEFT: { DIRS: [-1,-1], FACING: \"UPLEFT\" },\n    UPRIGHT: { DIRS: [1, -1], FACING: \"UPRIGHT\" },\n    DOWNLEFT: { DIRS: [-1, 1], FACING: \"DOWNLEFT\" },\n    DOWNRIGHT: { DIRS: [1, 1], FACING: \"DOWNRIGHT\" },\n  }\n\nconst ASSETURLS = {\n  tilesetUrl: \"./assets/tiny_galaxy_world.png\",\n  characterTilesetUrl: \"./assets/tiny_galaxy_monsters.png\",\n  fxSetUrl: \"./assets/tiny_galaxy_fx.png\",\n  spaceImageUrl: \"./assets/space.png\",\n  hootsforce: \"./assets/Gloryhammer-hootsforce.mp3\",\n  gameOver: \"./assets/gameover.png\",\n  spaceSet: \"./assets/tiny_galaxy_space_3x.png\"\n} \n\n//# sourceURL=webpack:///./src/util.js?");
+eval("__webpack_require__.r(__webpack_exports__);\n/* harmony export (binding) */ __webpack_require__.d(__webpack_exports__, \"FLOORTYPES\", function() { return FLOORTYPES; });\n/* harmony export (binding) */ __webpack_require__.d(__webpack_exports__, \"TILETYPES\", function() { return TILETYPES; });\n/* harmony export (binding) */ __webpack_require__.d(__webpack_exports__, \"DIRECTIONS\", function() { return DIRECTIONS; });\n/* harmony export (binding) */ __webpack_require__.d(__webpack_exports__, \"ASSETURLS\", function() { return ASSETURLS; });\nconst FLOORTYPES = {\n    solid: 1,\n    open: 0\n  }\nconst TILETYPES = {\n    0: { name: \"wall\", sprite:[{x:288, y:96, w:48, h:48},{x: 0, y: 96, w:48, h:48}], floor: FLOORTYPES.solid },\n    1: { name: \"tile\", sprite:[{x:144, y:432, w:48, h:48}], floor: FLOORTYPES.open },\n    2: { name: \"keycard\", sprite:[{x: 0, y:112, w:16, h:16}], floor: FLOORTYPES.open },\n    3: { name: \"item\", sprite:[{x: 0, y:0, w:16, h:16}], floor: FLOORTYPES.open },\n    41: { name: \"table\", sprite:[{x: 48, y:912, w:47, h:47}], floor: FLOORTYPES.solid },\n    42: { name: \"vat\", sprite:[{x: 144, y:816, w:47, h:47}], floor: FLOORTYPES.solid },\n    43: { name: \"crate\", sprite:[{x: 0, y:816, w:47, h:47}], floor: FLOORTYPES.open },\n    5: { name: \"computer\", sprite:[{x:192, y:816, w:47, h:47}], floor: FLOORTYPES.solid },\n  }\n\nconst DIRECTIONS = {\n    UP: { DIRS: [0, -1], FACING: \"UP\" },\n    DOWN: { DIRS: [0, 1], FACING: \"DOWN\" },\n    LEFT: { DIRS: [-1, 0], FACING: \"LEFT\" },\n    RIGHT: { DIRS: [1,0], FACING: \"RIGHT\" },\n    UPLEFT: { DIRS: [-1,-1], FACING: \"UPLEFT\" },\n    UPRIGHT: { DIRS: [1, -1], FACING: \"UPRIGHT\" },\n    DOWNLEFT: { DIRS: [-1, 1], FACING: \"DOWNLEFT\" },\n    DOWNRIGHT: { DIRS: [1, 1], FACING: \"DOWNRIGHT\" },\n  }\n\nconst ASSETURLS = {\n  tilesetUrl: \"./assets/tiny_galaxy_world.png\",\n  characterTilesetUrl: \"./assets/tiny_galaxy_monsters.png\",\n  fxSetUrl: \"./assets/tiny_galaxy_fx.png\",\n  spaceImageUrl: \"./assets/space.png\",\n  hootsforce: \"./assets/Gloryhammer-hootsforce.mp3\",\n  gameOver: \"./assets/gameover.png\",\n  spaceSet: \"./assets/tiny_galaxy_space_3x.png\",\n  interfaceUrl: \"./assets/tiny_galaxy_interface_3x.png\"\n} \n\n//# sourceURL=webpack:///./src/util.js?");
 
 /***/ }),
 

diff --git a/src/index.js b/src/index.js
@@ -13,6 +13,7 @@ window.fxSet = new Image();
 window.spaceImage = new Image();
 window.gameOver = new Image();
 window.spaceSet = new Image();
+window.interface = new Image();
 
 window.ctx = null
 window.tilesetLoaded = false 
@@ -27,26 +28,17 @@ window.music = new Audio(ASSETURLS.hootsforce)
 
 
 window.onload = function() {
-  
-  window.tileset.onerror = function(e) {
+
+  const notifyError = function(e) {
     window.ctx = null;
     alert("tileset load error", e.message);
   }
   
-  window.monsterSet.onerror = function(e) {
-    window.ctx = null;
-    alert("monsterset load error", e.message);
-  }
-
-  window.fxSet.onerror = function(e) {
-    window.ctx = null;
-    alert("background image load error", e.message);
-  }
-
-  window.spaceImage.onerror = function(e) {
-    window.ctx = null;
-    alert("background image load error", e.message);
-  }
+  window.tileset.onerror = notifyError
+  window.monsterSet.onerror = notifyError
+  window.fxSet.onerror = notifyError
+  window.spaceImage.onerror = notifyError
+  window.interface.onerror = notifyError
   
   window.tileset.onload = function() { window.tilesetLoaded = true };
   window.monsterSet.onload = function() { window.monsterSetLoaded = true }
@@ -58,6 +50,7 @@ window.onload = function() {
   window.spaceImage.src = ASSETURLS.spaceImageUrl;
   window.gameOver.src = ASSETURLS.gameOver;
   window.spaceSet.src = ASSETURLS.spaceSet
+  window.interface.src = ASSETURLS.interfaceUrl
   
 };
 
@@ -96,7 +89,7 @@ document.addEventListener("DOMContentLoaded", () => {
     const game = document.getElementById("game")
     window.ctx = game.getContext('2d');
     const newGame = new Game([game.width, game.height])
-    window.ctx.font = "bold 10pt sans-serif";
+    window.ctx.font = "bold 16pt 'Creepster'";
     
     window.addEventListener("keydown", (e) => {
       if ((e.keyCode >= 37 && e.keyCode <= 40) || e.keyCode === 32) {

diff --git a/src/game.js b/src/game.js
@@ -140,8 +140,7 @@ class Game {
     }
     this.monsters = monsterMap;
     this.renderPlayer();
-    this.renderFPSCounter(framesLastSecond);
-    this.renderScore();
+    this.renderHud(framesLastSecond);
     lastFrameTime = currentFrameTime;
     requestAnimationFrame(this.drawGame);
    }
@@ -190,8 +189,8 @@ class Game {
   // }
   
 
-   renderMap() {
-     for(let y = this.viewport.startTile[1]; y <= this.viewport.endTile[1]; y++) {
+  renderMap() {
+    for(let y = this.viewport.startTile[1]; y <= this.viewport.endTile[1]; y++) {
       for(let x = this.viewport.startTile[0]; x <= this.viewport.endTile[0]; x++) {
         const index = this.toIndex(x,y)
         const tile = TILETYPES[this.gameMap.map[this.toIndex(x,y)]];
@@ -206,15 +205,19 @@ class Game {
     }
   }
 
-  renderFPSCounter(framesLastSecond) {
-    window.ctx.fillStyle = "ff0000";
-    window.ctx.fillText("FPS: " + framesLastSecond, 10, 20)
+  renderHud(framesLastSecond) {
+    window.ctx.drawImage(window.interface, 574, 285, 145, 60, 10, 10, 130, 70);
+    window.ctx.fillStyle = "#980598";
+    window.ctx.fillText("FPS: " + framesLastSecond, 45, 35)
+    window.ctx.fillText("SCORE: " + this.score, 45, 60)
+    //This is controling the shadow around the sprites as well
+    window.ctx.shadowOffestX = 1
+    window.ctx.shadowOffestY = 1
+    window.ctx.shadowColor = "#980598";
+    window.ctx.shadowBlur = 1;
+
   }
 
-  renderScore() {
-    window.ctx.fillStyle = "ff0000";
-    window.ctx.fillText("Score: " + this.score, 10, 48)
-  }
   placeMonster(TILETYPES,FLOORTYPES) {
     const playerPosition = this.player.position
     const newMonsterPosition = () => [Math.floor(Math.random() * mapH - 1) + 1, Math.floor(Math.random() * mapW - 1) + 1]

diff --git a/src/util.js b/src/util.js
@@ -31,5 +31,6 @@ export const ASSETURLS = {
   spaceImageUrl: "./assets/space.png",
   hootsforce: "./assets/Gloryhammer-hootsforce.mp3",
   gameOver: "./assets/gameover.png",
-  spaceSet: "./assets/tiny_galaxy_space_3x.png"
+  spaceSet: "./assets/tiny_galaxy_space_3x.png",
+  interfaceUrl: "./assets/tiny_galaxy_interface_3x.png"
 } 
